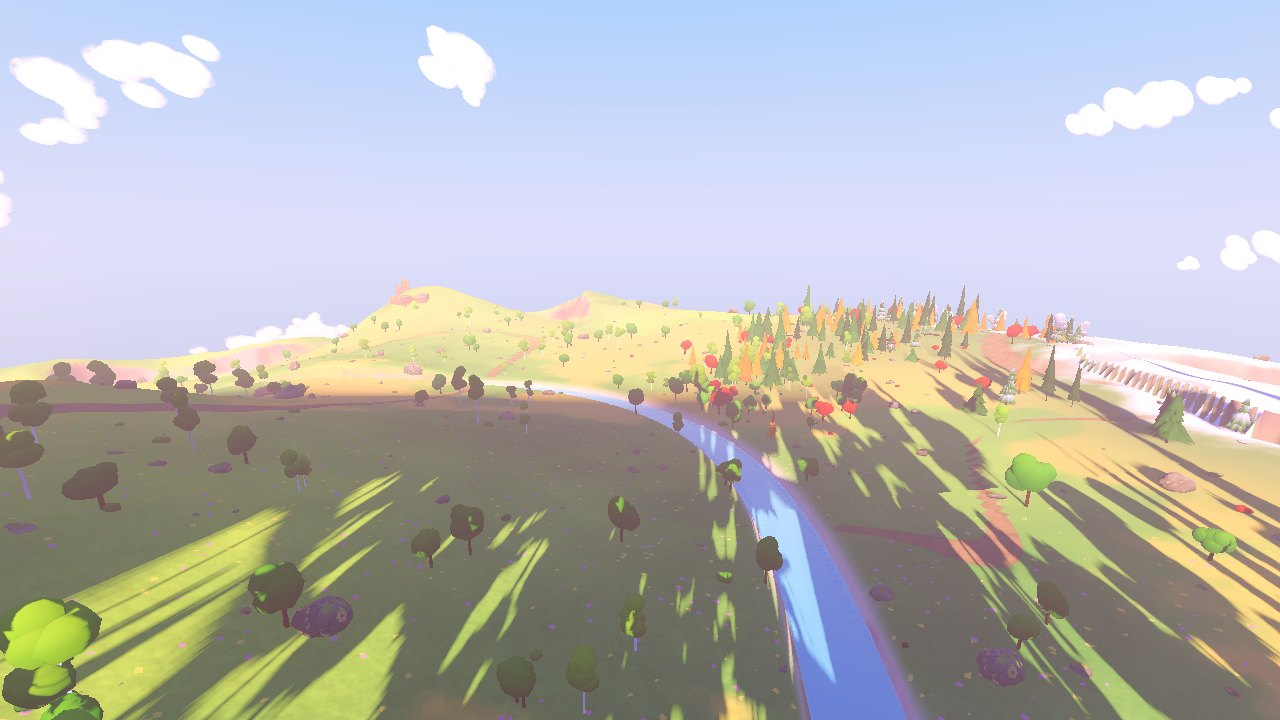
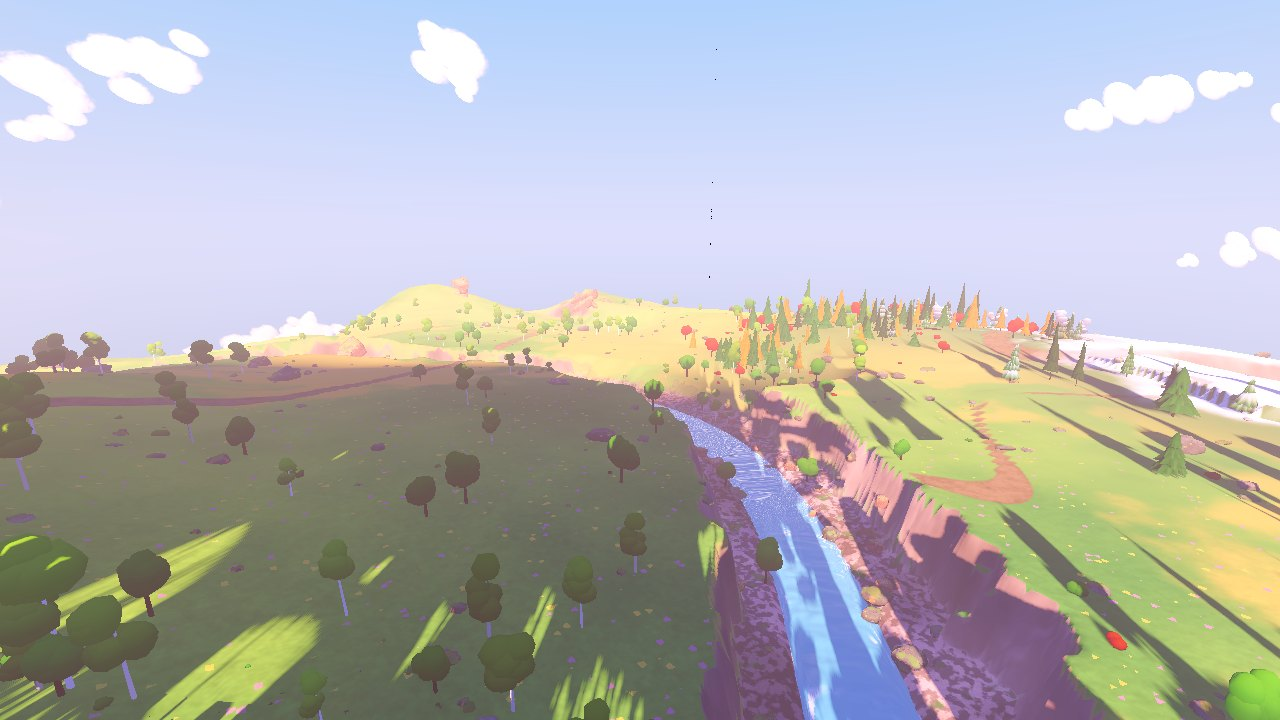
Rocky river gorges: cliffs on both sides, stony floor, boulders and rapids
- Rivers cut a gorge through the valley with stepped cliffs and a stony ledge
- Boulders in the water (thickest in rapids, with collision to hop across)
  and fallen rocks under the cliffs
- Rapids: faster, choppier white water; water patterns drift downstream
- Softer speckles and thinner cracks in the rock texture

Claude-Session: https://claude.ai/code/session_0176mp3mLr8iUe6AmbkpfTf3

diff --git a/README.md b/README.md
@@ -7,7 +7,8 @@ about 48 minutes at walking pace. Ships
 can land, and players can walk, run, swim and climb. There are forests,
 meadows full of swaying grass, clover, dandelions, lupines and berry bushes,
 golden grass patches, heather on the hills, autumn larches and red bushes,
-dirt trails winding all over, river valleys with flowing water, lakes with
+dirt trails winding all over, rivers flowing through rocky gorges with
+cliffs on both sides and boulders in the rapids, lakes with
 reeds and foamy shores, gentle mountains with sandstone rock formations, snowy biomes
 and frozen polar seas, all in warm golden-hour light with coloured haze in
 the distance. You can
@@ -29,8 +30,10 @@ one number (the seed) and you get a different planet.
 | ![Mountains by a lake](previews/mountain.jpg) | ![The whole planet](previews/orbit.jpg) |
 | **Snowy taiga** | **Frozen polar sea** |
 | ![Snowy forest](previews/snow.jpg) | ![Ice shelf near the pole](previews/ice.jpg) |
-| **A river in its valley** | **River valley from above** |
-| ![By the river](previews/river.jpg) | ![A river winding through its valley](previews/valley.jpg) |
+| **Down in a river gorge** | **Cliffs above the river** |
+| ![By the river, between the cliffs](previews/river.jpg) | ![Looking down into a river gorge](previews/gorge.jpg) |
+| **River valley from above** | |
+| ![A river winding through its gorge](previews/valley.jpg) | |
 | **Meadow plants** | **Snowy forest** |
 | ![Clover, dandelions, lupines and berry bushes](previews/meadow.jpg) | ![Snowy pines, firs, birches and bushes](previews/snow_forest.jpg) |
 | **Polar cap from orbit** | |
@@ -142,8 +145,12 @@ Godot to change:
 - lakes and the snow line
 - **Rivers**: how many there are, how far apart (**River Spacing M**), how wide
   the water is (**River Width M**) and how wide their valleys are
-  (**Valley Width M**). Rivers wind through the flat lowlands; the water
-  flows and carries streaks of foam downstream.
+  (**Valley Width M**). Rivers wind through the flat lowlands in a rocky
+  gorge: **Gorge Width M** and **Cliff Height M** set its size, and
+  **Rapids** how much of the river is white water with boulders sticking
+  out (you can hop across on them). The water flows and carries streaks of
+  foam downstream; the gorge floor is stony, with fallen rocks under the
+  cliffs.
 - the size of the snowy polar caps (**Polar Cap**) and how many snowy areas
   there are away from the poles (**Snowy Biomes**)
 - every colour, tree and rock density, and the number of clouds
